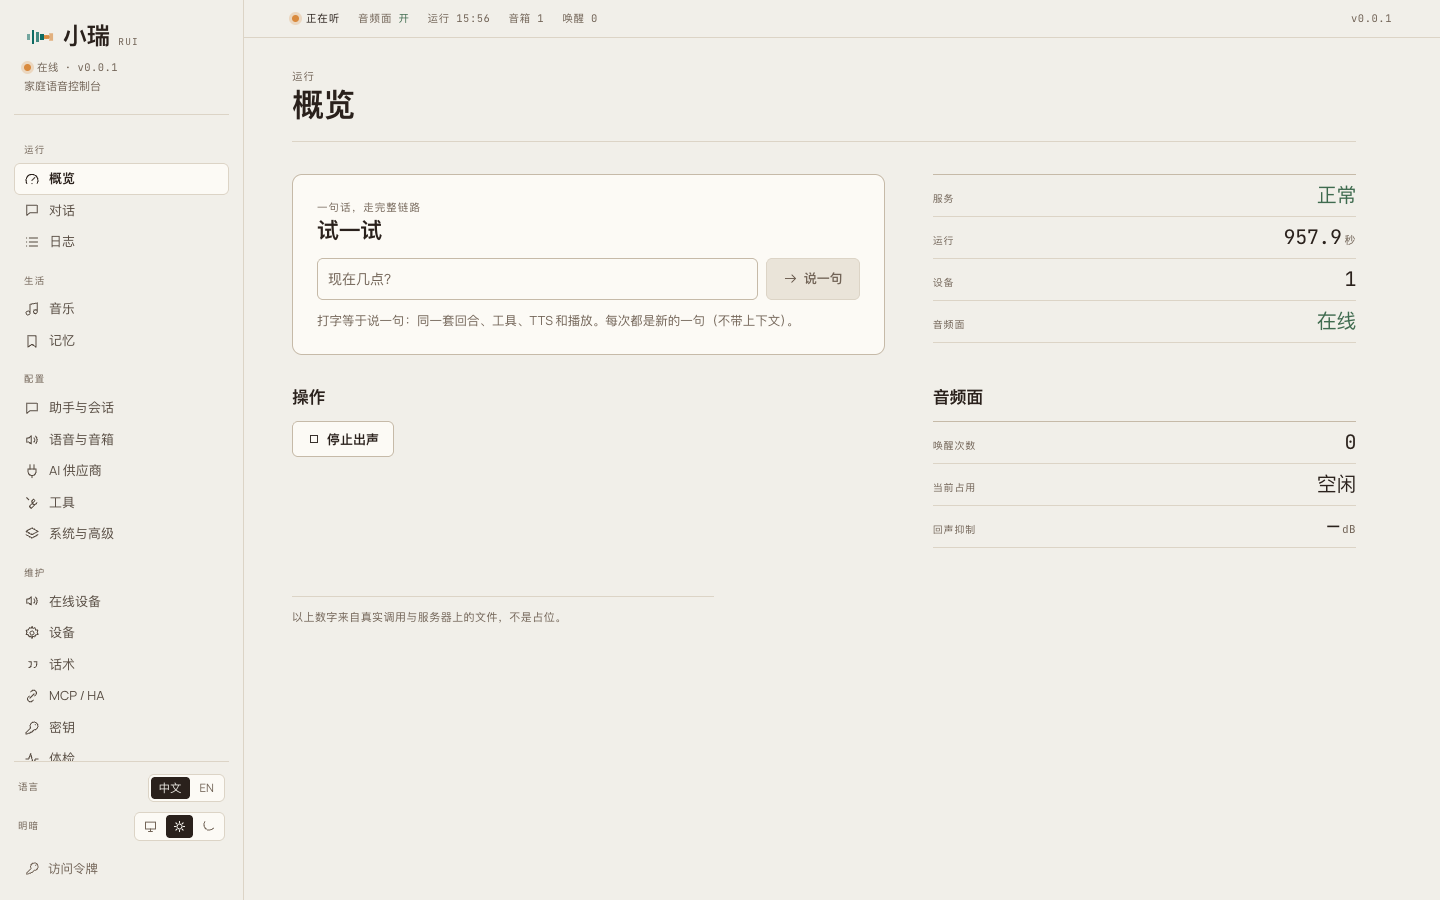
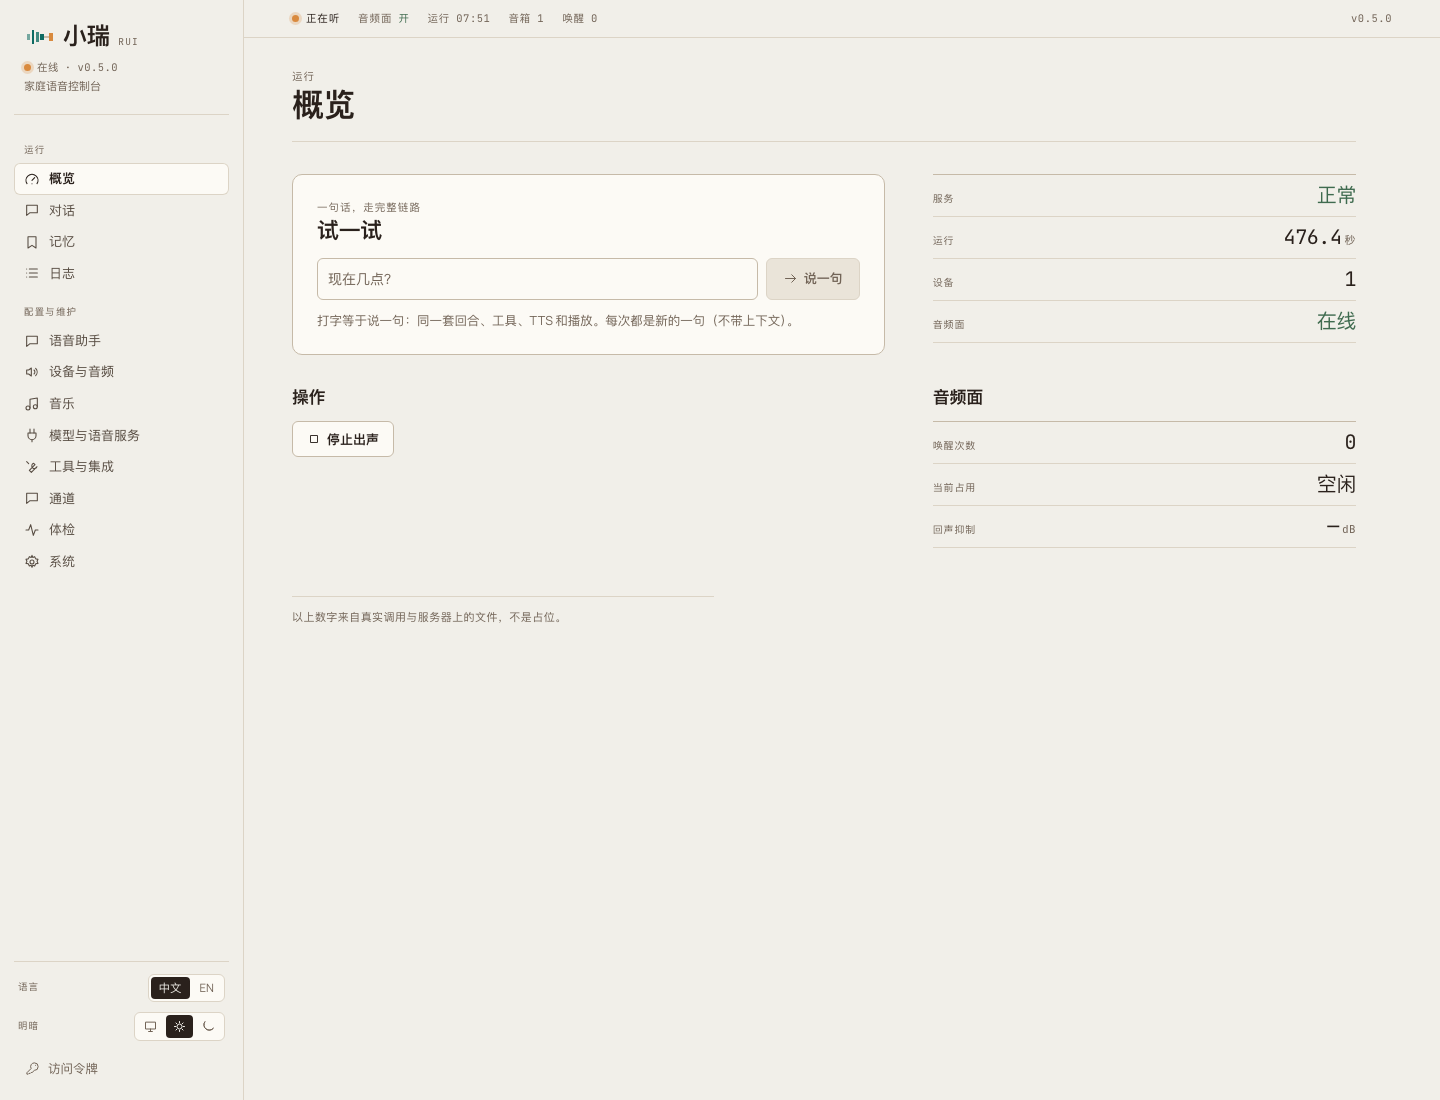
docs: refresh the 0.5.0 console screenshots and add the agent-install block
The three public screenshots were captured from the live 0.5.0 console (1440 px,
light theme, zh + en) and sanitized in the DOM before capture: IPs and local
paths are masked, token modal removed. The 0.4.x captions and the "screenshots
will be refreshed later" notes are gone.

README now has a "Let an agent install it (recommended)" item (zh + en) with a
copy-paste prompt that tells a command-capable agent to read the public docs,
install with the official install.sh at a pinned tag, ask the operator for the
required settings/keys, then verify with rui-healthcheck and one real turn.

diff --git a/README.md b/README.md
@@ -60,16 +60,16 @@
 
 <table>
   <tr>
-    <td width="50%"><img src="docs/screenshots/console-providers-zh.png" width="420" alt="AI 供应商"></td>
+    <td width="50%"><img src="docs/screenshots/console-providers-zh.png" width="420" alt="模型与语音服务"></td>
     <td width="50%"><img src="docs/screenshots/console-setup-en.png" width="420" alt="First-run setup"></td>
   </tr>
   <tr>
-    <td><em>AI 供应商：三段链路、预设/自定义、就绪徽章与试听。</em></td>
+    <td><em>模型与语音服务：LLM/ASR/TTS 三段链路、预设、就绪徽章与试听。</em></td>
     <td><em>首次运行向导：密钥、模型、设备准备/接线、测试、试一句。</em></td>
   </tr>
 </table>
 
-> 截图来自真实控制台，已隐去 LAN 地址和个人路径；截图稍后与内容一起刷新。
+> 截图来自真实控制台（v0.5.0），已隐去内网地址和本机路径。
 
 ### 30 秒快速开始
 
@@ -86,6 +86,22 @@ curl -4 -fsSL https://raw.githubusercontent.com/yes999zc/rui/v0.5.0/deploy/insta
 安装后打开 `http://<nas-lan-ip>:8080/`，输入 console token（0.4.1+ 存在 `~/rui/console-token.txt`；
 缺失时运行 `cd ~/rui && docker compose exec -T rui rui token`）。**必须用 NAS 的局域网 IP**，
 否则 `connect` 会生成 `127.0.0.1` 地址。目录权限、代理、源码回退和手动 Compose 见 [docs/deploy.md](docs/deploy.md)。
+
+### 让 Agent 帮你安装（推荐）
+
+如果你本机已有能执行命令的 AI Agent（Claude Code / Codex / Cursor Agent 等），把下面整段复制给它。
+它会先读官方公开文档，再按官方安装脚本部署，并在需要时主动问你配置：
+
+```text
+你是一名在 Linux NAS 上部署自托管服务的工程师。请帮我安装 rui（小瑞）最新稳定版：
+1. 先读 https://github.com/yes999zc/rui 的 README、docs/deploy.md §2 和 docs/first-run.md，只读公开文档，不要改仓库代码；
+2. 按 docs/deploy.md 的官方 install.sh 安装，固定 release tag，不要用 main；
+3. 动手前先问我：NAS 安装目录（默认 ~/rui）、Docker 是否可用、音箱型号和局域网地址、唤醒词、LLM/ASR/TTS 的 key、是否要开 Telegram/音乐/Home Assistant，以及我的城市；
+4. key/token 只通过交互输入或写成 0600 文件，不要写进日志、聊天或 git；
+5. 装完运行 rui-healthcheck 和一次真实回合；任何一步失败就停下把错误发我，不要静默跳过或假装成功。
+```
+
+装好后按下面的「第一次运行」完成 8 步向导即可。
 
 ### 第一次运行
 
@@ -151,7 +167,7 @@ flowchart LR
 - **只支持 LX06**：需要 open-xiaoai client、同 LAN/L2；刷机/装 client 属于上游，Rui 不代刷。
 - **第三方插头隔离**：sidecar、签名/allowlist、多设备 owner 仲裁尚未交付；in-process 需可信 manifest。
 - **音乐协议**：Plex 尚未实现；新增协议需要适配器。
-- **控制台收尾**：Phase 4 已完成；旧 legacy 面板/路由不再兼容（有意），截图稍后与内容一起刷新。
+- **控制台收尾**：Phase 4 已完成；旧 legacy 面板/路由不再兼容（有意）。
 - **体验欠账**：手机对话、音乐收藏/口味 UI 等见 [docs/remaining-work.md](docs/remaining-work.md)。
 - **生产微信**：Telegram 已生产验证；微信 iLink 接口保留，生产验证未完成。
 
@@ -228,16 +244,16 @@ local ASR stay on your machine. No vendor cloud is required; only the providers 
 
 <table>
   <tr>
-    <td width="50%"><img src="docs/screenshots/console-providers-zh.png" width="420" alt="AI providers"></td>
+    <td width="50%"><img src="docs/screenshots/console-providers-zh.png" width="420" alt="Models & voice services"></td>
     <td width="50%"><img src="docs/screenshots/console-setup-en.png" width="420" alt="First-run setup"></td>
   </tr>
   <tr>
-    <td><em>AI providers: chains, presets/custom endpoints, readiness and audition.</em></td>
+    <td><em>Models & voice services: LLM/ASR/TTS chains, presets, readiness and audition.</em></td>
     <td><em>First-run wizard: keys, models, device prep/hookup, test and one sentence.</em></td>
   </tr>
 </table>
 
-> Captures come from a real console with LAN addresses and personal paths redacted. They show the 0.4.x console; a screenshot refresh is planned with the next content pass.
+> Captures come from a real console (v0.5.0); LAN addresses and local paths are redacted.
 
 ### 30-second quick start
 
@@ -255,6 +271,28 @@ local and only ASR to fetch, about **85 seconds**. Replace the tag with `main` f
 Open `http://<nas-lan-ip>:8080/` and enter the console token (0.4.1+ writes `~/rui/console-token.txt`; if
 missing, run `cd ~/rui && docker compose exec -T rui rui token`). **Use the NAS LAN IP**, or `connect`
 generates a `127.0.0.1` URL. Host requirements, proxies, source fallback and manual Compose: [docs/deploy.md](docs/deploy.md).
+
+### Let an agent install it (recommended)
+
+If you already run a command-capable AI agent (Claude Code / Codex / Cursor Agent, etc.), paste the block
+below into it. The agent reads the public docs first, installs with the official script, and asks you for
+the settings it needs:
+
+```text
+You are an engineer deploying a self-hosted service on a Linux NAS. Please install rui (小瑞), the latest
+stable release:
+1. Read the README, docs/deploy.md section 2 and docs/first-run.md at https://github.com/yes999zc/rui first;
+   read only the public docs and do not modify the repository code.
+2. Install with the official install.sh from docs/deploy.md, pinning a release tag (never main).
+3. Before acting, ask me for: the install directory (default ~/rui), whether Docker is available, the
+   speaker model and LAN address, wake words, the LLM/ASR/TTS keys, whether to enable Telegram / music /
+   Home Assistant, and my city.
+4. Keep keys and tokens in interactive input or 0600 files only; never write them to logs, chat or git.
+5. After the install, run rui-healthcheck and one real turn. If any step fails, stop and show me the error;
+   do not skip it silently or pretend it succeeded.
+```
+
+Then complete the eight-step wizard under "First run" below.
 
 ### First run
 
@@ -323,7 +361,7 @@ plug contract: [docs/socket-plug-v1.md](docs/socket-plug-v1.md).
 - **LX06 only:** needs the open-xiaoai client and same LAN/L2; flashing/client install are upstream, not done by Rui.
 - **Third-party plugs:** sidecar isolation, signing/allowlists and multi-device owner arbitration are not shipped; in-process needs a trusted manifest.
 - **Music protocols:** Plex is not implemented; a new protocol needs an adapter.
-- **Console cleanup:** Phase 4 is complete; legacy panel routes no longer resolve (intentional), and screenshots will be refreshed with the next content pass.
+- **Console cleanup:** Phase 4 is complete; legacy panel routes no longer resolve (intentional).
 - **UX debt:** mobile turns, music favorites/taste UI and more are in [docs/remaining-work.md](docs/remaining-work.md).
 - **WeChat in production:** Telegram is production-verified; the WeChat iLink interface is kept, but production validation is still pending.
 

diff --git a/docs/screenshots/README.md b/docs/screenshots/README.md
@@ -1,6 +1,6 @@
 # Screenshots
 
-Public README assets. All images were captured from a real local console and then
+Public README assets. All images were captured from the live 0.5.0 console and then
 sanitized before publication:
 
 - device LAN addresses are masked (`•••.•••.•••.•••`);
@@ -10,9 +10,11 @@ sanitized before publication:
 | File | What it shows |
 |---|---|
 | `console-overview-zh.png` | Overview (zh), live signal ledger and the try-it composer |
-| `console-providers-zh.png` | AI providers (zh), chain order + per-provider editing |
-| `console-setup-en.png` | First-run wizard (en), dynamic key list and progress |
+| `console-providers-zh.png` | Models & voice services (zh), LLM/ASR/TTS chains and per-provider editing |
+| `console-setup-en.png` | First-run wizard (en), the eight evidence-driven steps |
 | `brand-mark.svg` | Static 小瑞 / Rui pixel mark (animated version lives in `web/src/components/BrandMark.vue`) |
 
-The working captures are kept under `docs/console-shots/` for internal QA; only the
-files in this directory are referenced by the public README.
+Captured 2026-10-25 from the production console (v0.5.0) at 1440 px width via headless
+Chrome; text nodes and input values are masked in the DOM before capture. The working
+captures under `docs/console-shots/` stay internal; only this directory is referenced by
+the public README.
